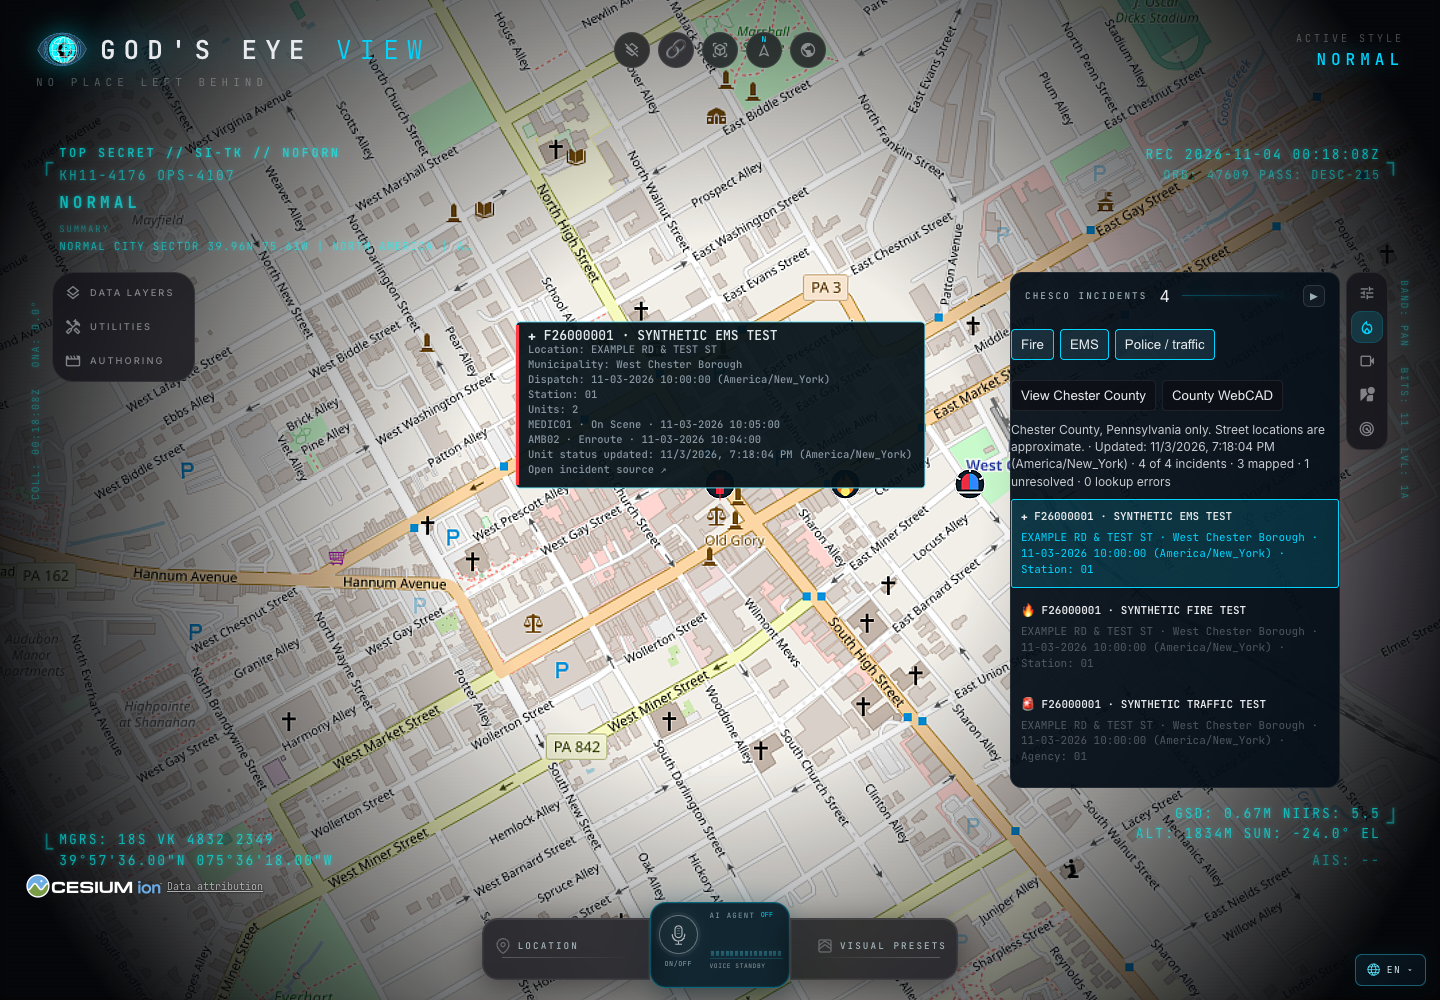
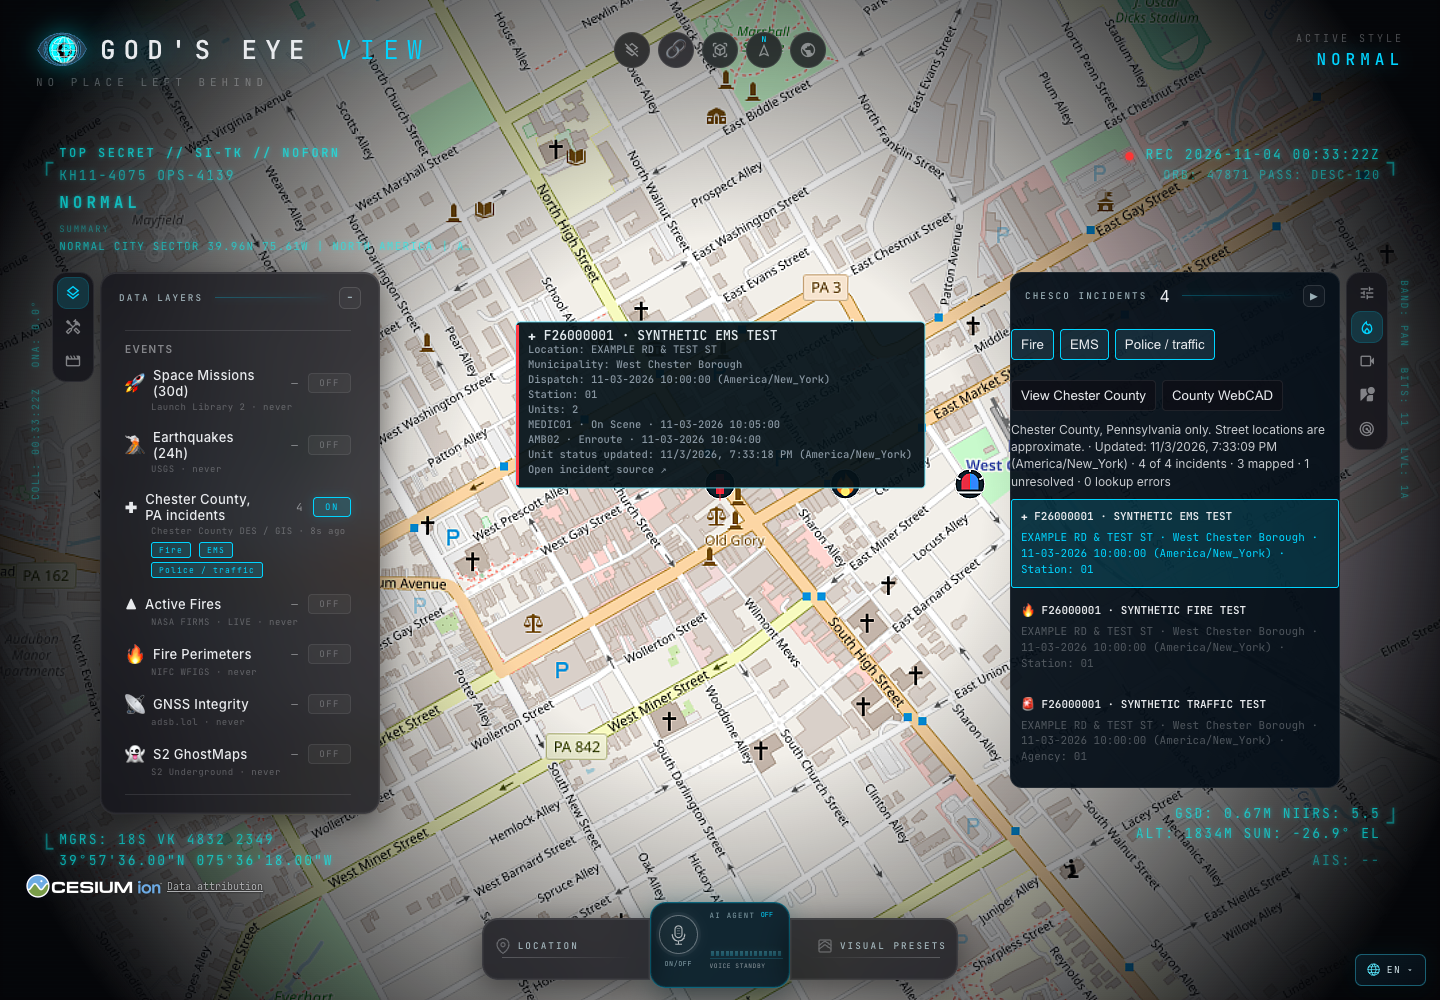
feat: sync county category filters with Data Layers

Changed region(s): [[0.0312, 0.248, 0.2812, 0.837], [0.8438, 0.434, 0.875, 0.465]]

diff --git a/src/layers/chesterCountyEms/index.js b/src/layers/chesterCountyEms/index.js
@@ -59,7 +59,7 @@ export function createChesterCountyEmsLayer({
   picking,
   pointer,
 }) {
-  let viewer, dataSource, request;
+  let viewer, dataSource, request, rowControlsListener;
   const panelListeners = new Set();
   let enabled = false;
   let snapshot = null;
@@ -161,6 +161,7 @@ export function createChesterCountyEmsLayer({
     }, Cesium.ScreenSpaceEventType.LEFT_CLICK);
   }
   const notify = () => {
+    rowControlsListener?.();
     for (const listener of panelListeners) listener();
     viewer?.scene?.requestRender?.();
   };
@@ -360,6 +361,7 @@ export function createChesterCountyEmsLayer({
       layer.disable();
       if (dataSource) viewer.dataSources.remove(dataSource, true);
       panelListeners.clear();
+      rowControlsListener = null;
       viewer = dataSource = snapshot = null;
     },
     getStats() {
@@ -379,6 +381,33 @@ export function createChesterCountyEmsLayer({
           ).length || 0,
         locationErrorCount: snapshot?.locationCoverage?.unavailable || 0,
       };
+    },
+    getRowControls() {
+      return {
+        chips: CATEGORIES.map((category) => ({
+          id: category,
+          label: t(
+            category === 'fire'
+              ? 'Fire'
+              : category === 'ems'
+                ? 'EMS'
+                : 'Police / traffic',
+          ),
+          title:
+            category === 'traffic'
+              ? t('Public WebCAD traffic reports')
+              : undefined,
+          active: categories.includes(category),
+          params: {
+            categories: categories.includes(category)
+              ? categories.filter((value) => value !== category)
+              : [...categories, category],
+          },
+        })),
+      };
+    },
+    setRowControlsListener(listener) {
+      rowControlsListener = typeof listener === 'function' ? listener : null;
     },
     getIncidentPanelState() {
       const allRows = snapshot?.rows || [];

diff --git a/docs/CHESTER-COUNTY-EMS.md b/docs/CHESTER-COUNTY-EMS.md
@@ -3,14 +3,15 @@
 Enable **Data Layers → Events → Chester County, PA incidents**, then open
 **CHESCO INCIDENTS** on the right rail. Its **View Chester County** action moves
 the map to the county. The right-side app holds the active list, coverage/freshness
-status and county actions; Data Layers retains the layer toggle and standard
-feed count. Disabling the layer hides the app and its launcher. An enabled empty
-or failed feed keeps the app available, showing its empty/stale/error state.
+status and county actions; Data Layers retains the layer toggle, standard feed
+count and category filters. Disabling the layer hides the app and its launcher.
+An enabled empty or failed feed keeps the app available, showing its empty/stale/error state.
 The list updates from the existing feed without a separate polling loop.
 
-The app's **Fire**, **EMS** and **Police / traffic** toggles filter the map icons
-and active list together. All three start on. Police / traffic corresponds to
-the public WebCAD Traffic table, not a complete police-call feed. The app shows
+The **Fire**, **EMS** and **Police / traffic** toggles in Data Layers and the
+app stay in sync and filter the map icons and active list together. All three
+start on. Police / traffic corresponds to the public WebCAD Traffic table,
+not a complete police-call feed. The app shows
 matching/total counts; switching every category off keeps the app available with
 **No matching incidents**. Excluding the selected report closes its map card and
 cancels its pending detail lookup. Filters apply in the current app session;
@@ -156,6 +157,7 @@ QA_BASE_URL=http://localhost:4177 node scripts/qa-chester-county-ems.mjs
 ```
 
 The browser gate uses synthetic records only and checks all three categories,
+including synchronized changes from Data Layers and the county app,
 actual icon selection, public unit fields, mapping coverage, empty-snapshot clearing and disable. It writes
 its screenshot to `qa-shots/chester-county-ems/selected.png`. Set
 `QA_RECORDING_PATH` to an `.mp4` path to also record the interaction.

diff --git a/docs/CURRENT-STATE.md b/docs/CURRENT-STATE.md
@@ -6733,13 +6733,13 @@ exclusion now directs the model to these tools rather than hiding the layer.
 The active Chester County report list now lives in its own **CHESCO INCIDENTS**
 right-side app alongside the other panels. Its launcher and panel are hidden
 while the data layer is off, and return when it is enabled. Data Layers keeps
-only the normal visibility toggle/feed count. The app shares the existing
-snapshot and selection lifecycle, with no additional requests or polling;
+the normal visibility toggle/feed count and synchronized category filters. The
+app shares the existing snapshot and selection lifecycle, with no additional requests or polling;
 empty/stale/error feeds remain accessible while enabled. List selections still
 open the same map cards, and icon selections update the app's active row.
 
-The county app includes Fire, EMS and Police/Traffic category toggles, all on
-by default. These filter map icons and the app list together, with matching/total
+The county app and Data Layers include synchronized Fire, EMS and Police/Traffic
+category toggles, all on by default. These filter map icons and the app list together, with matching/total
 counts and a distinct no-match state. Police/Traffic uses WebCAD's public Traffic
 table. Category changes use the cached snapshot, preserve full feed health/counts,
 and dismiss a selected report when its category is hidden. Filters are session

diff --git a/changelog.d/1526-chester-county-incidents.md b/changelog.d/1526-chester-county-incidents.md
@@ -2,4 +2,4 @@
 
 - Expose Chester County public incident lists and unit details to MCP and voice, with scoped visibility aliases, source freshness, approximate GIS provenance and unresolved-report coverage.
 
-- Move the active Chester County list into a dedicated right-side app, with Fire/EMS/Police-Traffic filters for the list and map, and its launcher hidden whenever the data layer is off.
+- Move the active Chester County list into a dedicated right-side app, with synchronized Fire/EMS/Police-Traffic filters in the app and Data Layers for the list and map, and its launcher hidden whenever the data layer is off.
